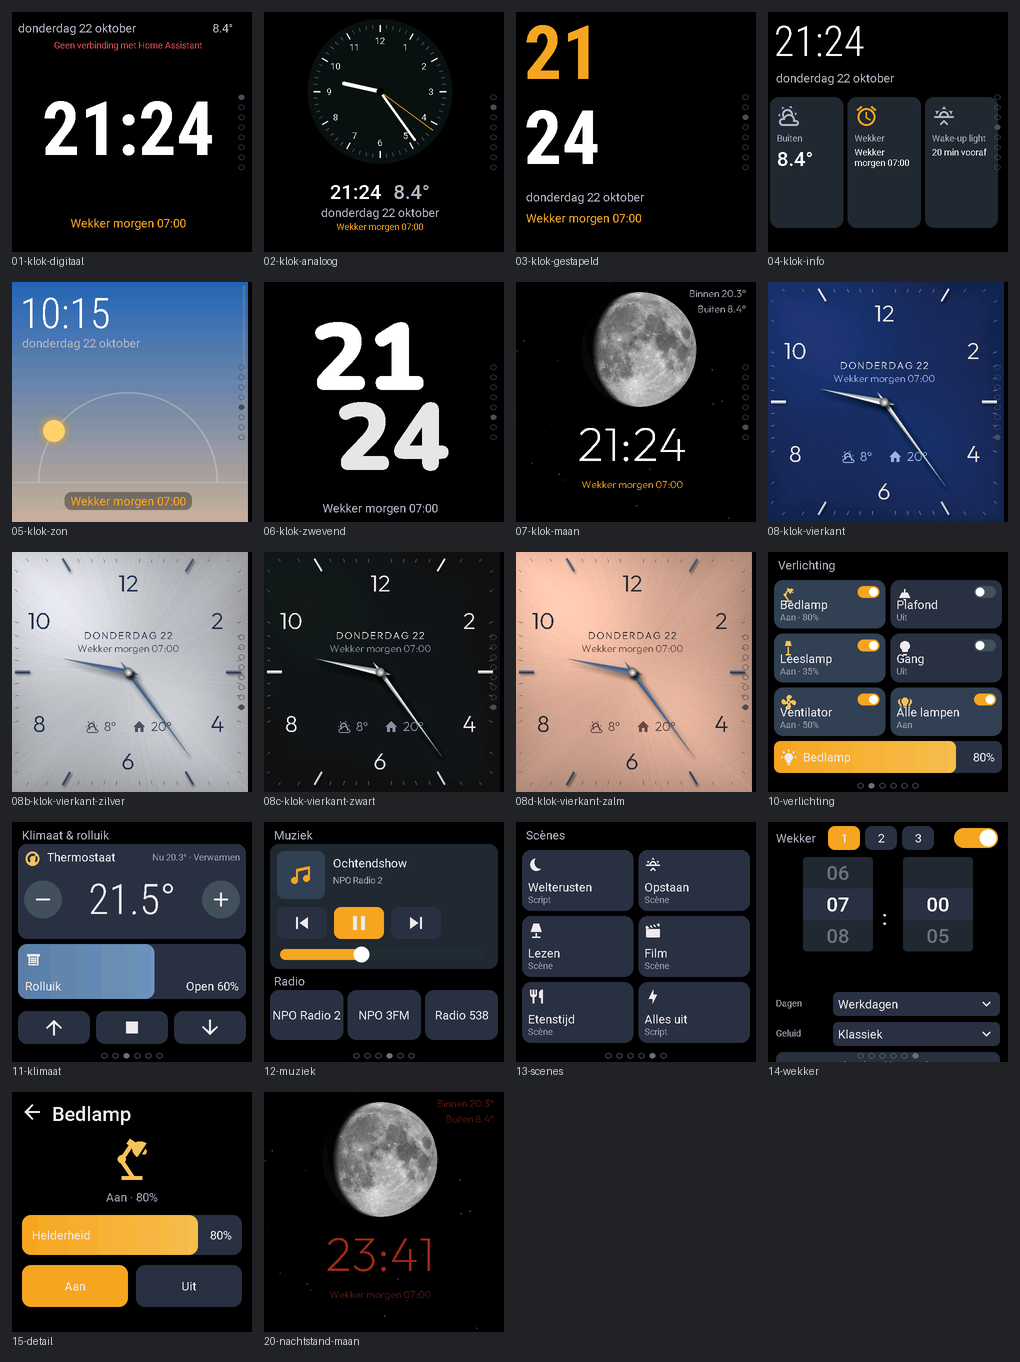
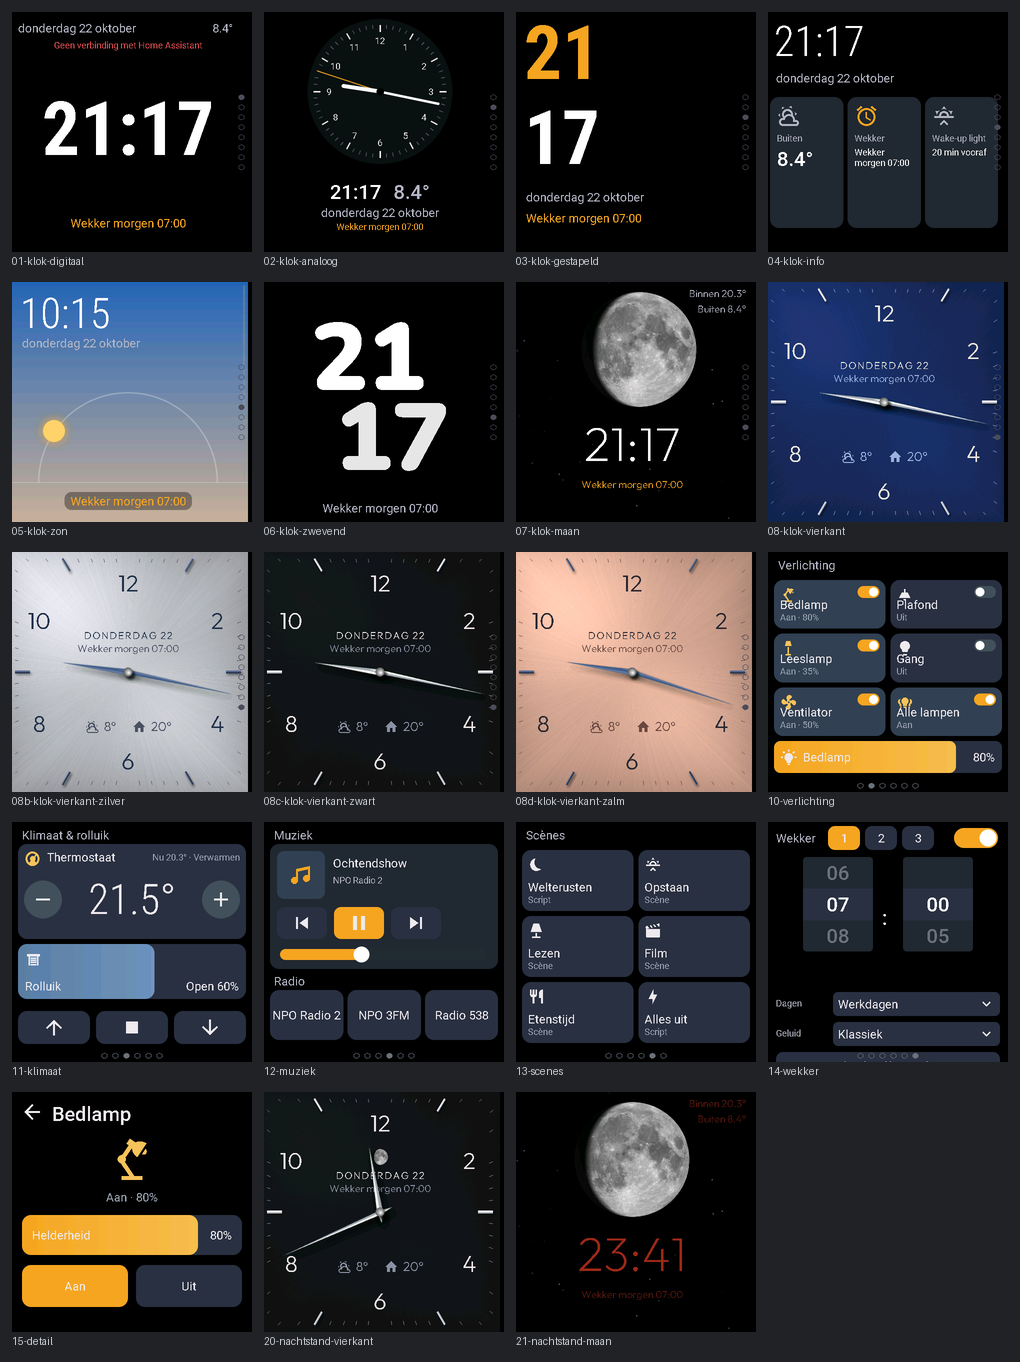
Vierkant standaard klokscherm, zwarte Vierkant met maan als nachtklok
- Klokontwerp staat standaard op Vierkant.
- Nieuwe keuze Nachtklok (vervangt de schakelaar Maan in de nachtstand):
  Vierkant zwart (standaard), Maan of Rood filter.
- Vierkant zwart: dezelfde vierkante klok met zwarte plaat en een kleine
  realistische maan in de fase van vandaag boven de datum.
- Schermafdrukken: 20-nachtstand-vierkant en 21-nachtstand-maan.

Claude-Session: https://claude.ai/code/session_01CtYG5CCfVz9HHyKsYQVvyV

diff --git a/README.md b/README.md
@@ -75,8 +75,10 @@ Verder:
   kamer (lichtsensor uit Home Assistant), wordt het scherm gedimd en kleurt
   een rood filter álles rood: cijfers, wijzers, iconen en de lucht van het
   ontwerp Zon, zoals de nachtstand van StandBy. De eerste tik wekt alleen het
-  scherm, zodat je in het donker niet per ongeluk een lamp aanzet.
-- **Vierkant** ([screenshot](docs/screenshots/4inch/08-wijzerplaten.png)):
+  scherm, zodat je in het donker niet per ongeluk een lamp aanzet. Welke klok
+  je 's nachts ziet kies je in HA met *Nachtklok*: *Vierkant zwart*
+  (standaard), *Maan* of *Rood filter* over je eigen ontwerp.
+- **Vierkant** (standaard klokscherm) ([screenshot](docs/screenshots/4inch/08-wijzerplaten.png)):
   een realistische analoge klok over het hele vierkante scherm, in de stijl van
   een vierkant horloge: een geborstelde sunray-plaat met lichtval van
   linksboven en een vleugje glasglans, opgezette gepolijste uurindexen en
@@ -88,13 +90,15 @@ Verder:
   een lichte plaat worden cijfers en wijzers donker (geblauwd staal). Het
   weericoon volgt `weer_entiteit` in `instellingen.yaml` (standaard
   `weather.forecast_home`). De beelden maakt `tools/wijzerplaat.py`. Op de 7"
-  staat de plaat in het midden.
+  staat de plaat in het midden. Als nachtklok
+  ([screenshot](docs/screenshots/4inch/20-nachtstand-vierkant.png)) is het
+  dezelfde klok met de zwarte plaat en, als enige verschil, een kleine
+  realistische maan in de fase van vandaag boven de datum.
 - **Maanscherm** ([screenshot](docs/screenshots/15-maan-nacht.png)): in de
   nachtstand toont de klok een realistische maan in de fase van vandaag (gedimd
   grijs) op een sterrenhemel, met de tijd en de volgende wekker in rood en
-  rechtsboven de temperatuur binnen (thermostaat) en buiten. Overdag te kiezen als klokontwerp *Maan*. Met de
-  schakelaar *Maan in de nachtstand* uit krijg je weer je eigen ontwerp onder
-  het rode filter. De maantextuur is gemaakt met `tools/maan_textuur.py` uit de
+  rechtsboven de temperatuur binnen (thermostaat) en buiten. Overdag te kiezen als klokontwerp *Maan*, 's nachts
+  met *Nachtklok* op *Maan*. De maantextuur is gemaakt met `tools/maan_textuur.py` uit de
   maankaart van [NASA's Scientific Visualization Studio](https://svs.gsfc.nasa.gov/4720)
   (Lunar Reconnaissance Orbiter, publiek domein).
 - **Klokontwerpen in StandBy-stijl:** *Zon*
@@ -326,7 +330,7 @@ gevonden is; zo niet, probeer een ander adres met `es7210_adres` (0x40–0x43).
 | `number.alarmklok_helderheid_overdag` / `_s_nachts` | Schermhelderheid |
 | `light.alarmklok_schermhelderheid` | Backlight rechtstreeks |
 | `select.alarmklok_klokontwerp` | Digitaal / Analoog / Gestapeld / Info / Zon / Zwevend / Maan / Vierkant |
-| `switch.alarmklok_maan_in_de_nachtstand` | Nachtstand met het maanscherm (aan) of met het rode filter over je eigen ontwerp (uit) |
+| `select.alarmklok_nachtklok` | Klok in de nachtstand: Vierkant zwart (vierkante klok, zwarte plaat, kleine maan) / Maan (maanscherm) / Rood filter (eigen ontwerp onder een rood filter) |
 | `sensor.alarmklok_wekker_status` | Wacht / Gaat af / Snooze |
 | `button.alarmklok_snooze`, `button.alarmklok_wekker_stoppen`, `button.alarmklok_wekker_testen` | Bediening op afstand |
 | `update.alarmklok_wifi_chip_c6` | Firmware van de wifi-chip (7" en 4B), zie [Stabiliteit](#stabiliteit) |
